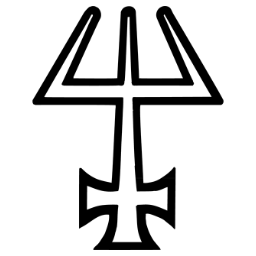
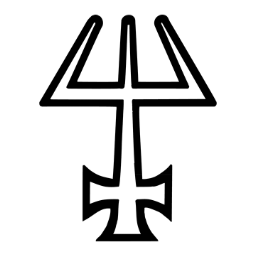
Знаки Сфер: в мелких местах — сплошные официальные знаки (SphereCore, assets/mage/sphere-*-core.png): кружок Сферы на листе, мастер создания, чат, дуэль — контурные при 18–23 px рассыпались на штрихи; кружок крупнее (32 px, знак 23 px), у нулевой Сферы знак ярче; в мастере знак Сферы — с заливкой ма

Changed region(s): [[0.125, 0.0, 0.875, 1.0]]

diff --git a/styles/types/mage.css b/styles/types/mage.css
@@ -103,8 +103,11 @@ body.r-theme-light .vtm20.r-type-mage {
 body.r-theme-light .vtm20 .r-mg { background: linear-gradient(170deg, #3a2a78, #1b1436); }
 .vtm20.r-type-mage .r-seal-glyph { display: inline-grid; place-items: center; }
 .vtm20.r-type-mage .r-seal-glyph .r-sym { width: 15px; height: 15px; }
-.vtm20.r-type-mage .r-sphere-sigil { padding: 4px; }
-.vtm20.r-type-mage .r-sphere.is-zero .r-sphere-sigil .r-mg { opacity: .45; }
+/* кружок Сферы: крупнее и с узким полем — широкие знаки (Энтропия, Жизнь, Дух) не сжимаются в кашу; у нулевой Сферы знак
+   приглушён, но читается */
+.vtm20.r-type-mage .r-sphere-sigil { flex: 0 0 32px; width: 32px; height: 32px; padding: 4px; }
+.vtm20.r-type-mage .r-sphere-sigil .r-sym { width: 23px; height: 23px; }
+.vtm20.r-type-mage .r-sphere.is-zero .r-sphere-sigil .r-mg { opacity: .62; }
 img[src$="assets/mage/sphere-prime.png"] { filter: invert(.93) sepia(.25) hue-rotate(200deg); }
 body.r-theme-light img[src$="assets/mage/sphere-prime.png"] { filter: none; }
 
